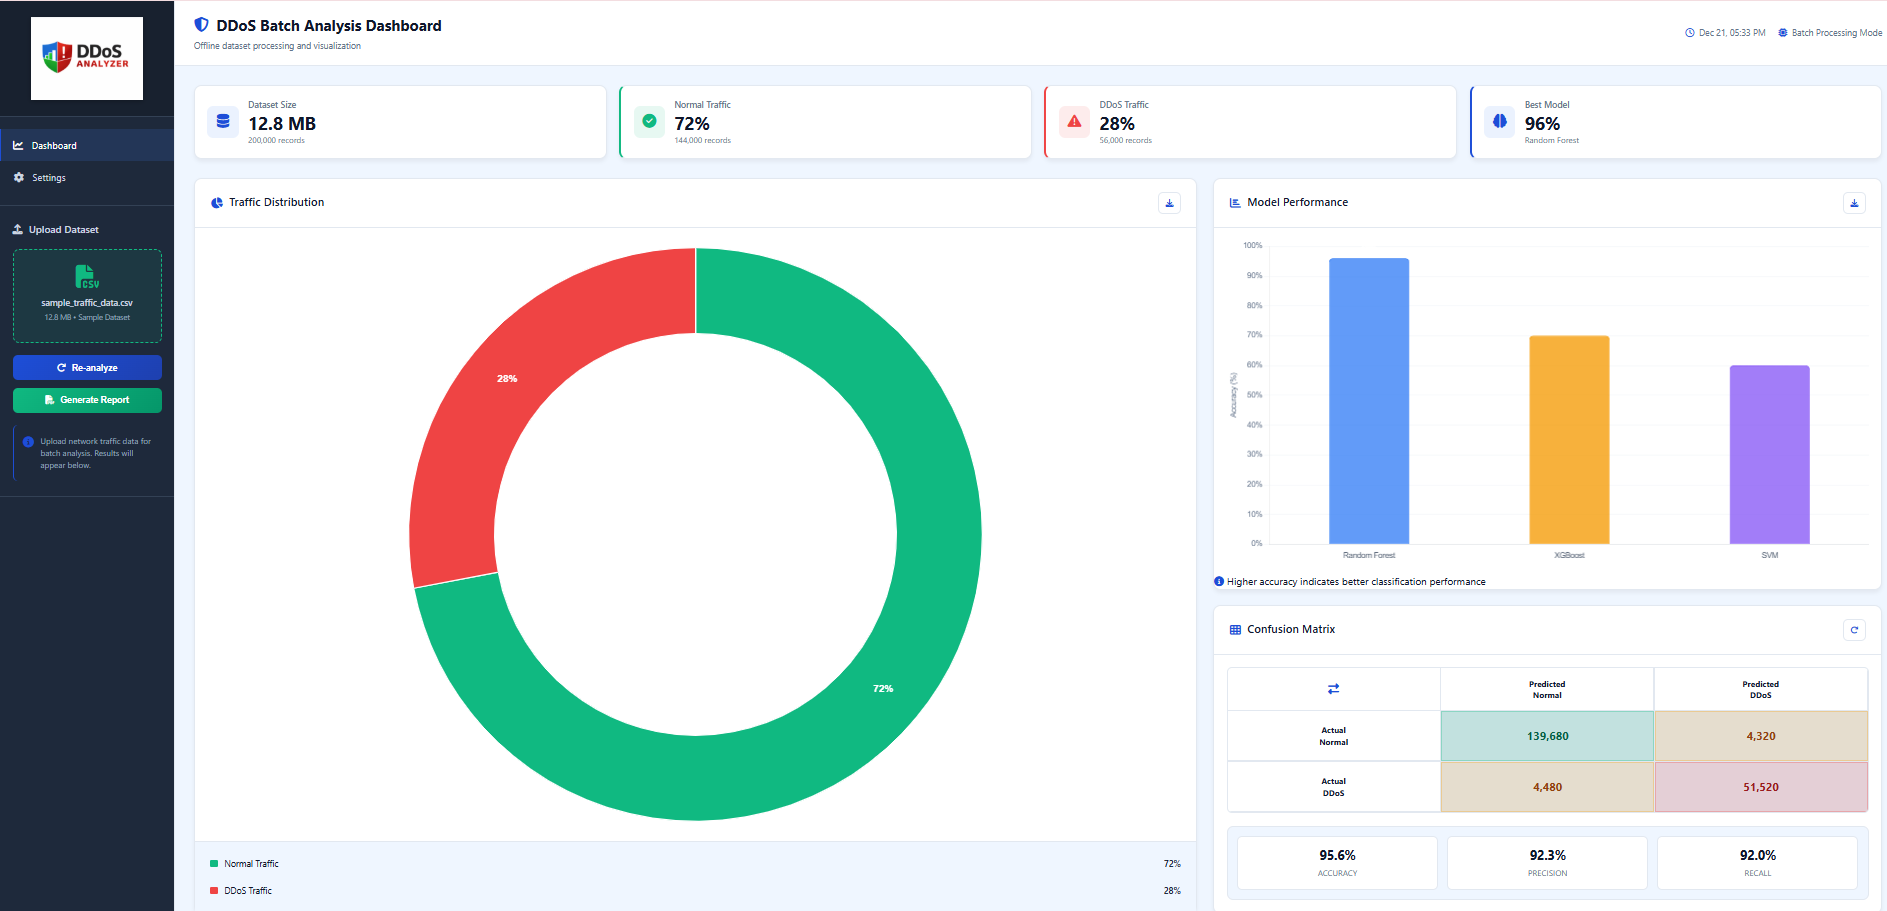
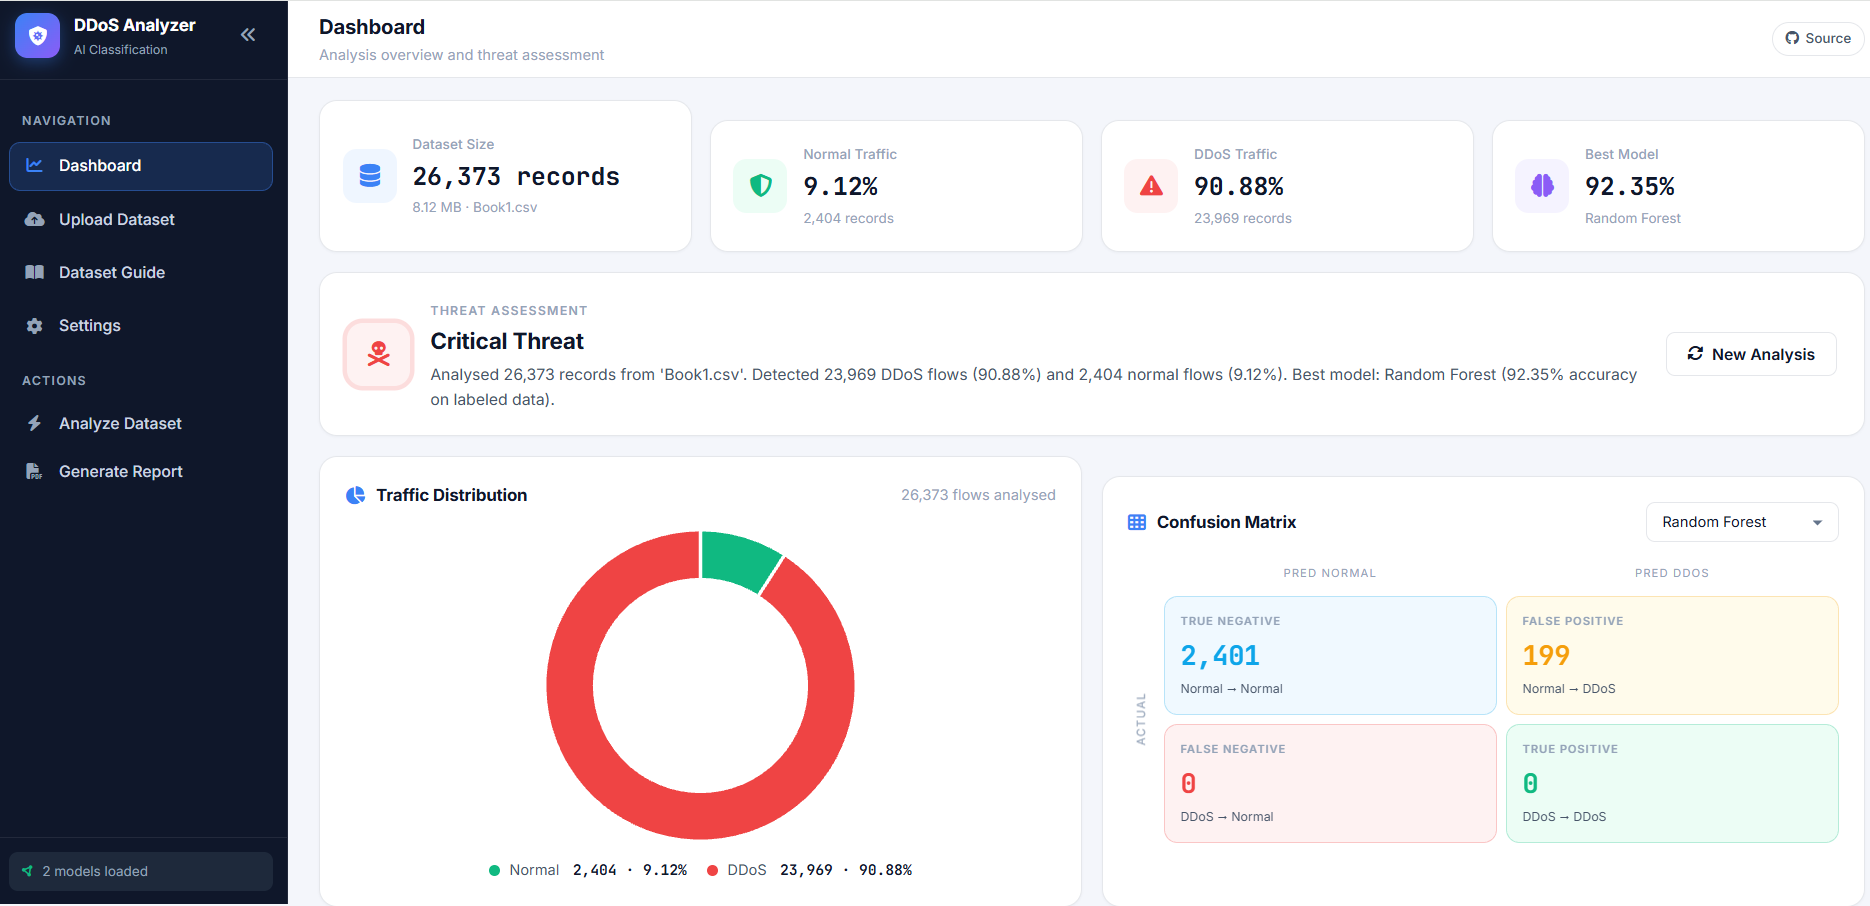
docs: refresh screenshots with current UI
- Replace screenshots with current-UI captures: dashboard, model
  performance, traffic intelligence, recommendations, PDF report (2 pages)
- Add model-performance.png; drop stale upload/settings shots
- Update README gallery to the new 6-shot layout

diff --git a/README.md b/README.md
@@ -89,13 +89,13 @@ Everything runs **locally** — your traffic data never leaves your machine (the
 
 <div align="center">
 
-| Dashboard | Upload |
+| Dashboard | Model Performance |
 |:---:|:---:|
-| <img src="assets/screenshots/dashboard.png" width="420"/> | <img src="assets/screenshots/upload.png" width="420"/> |
-| **AI Recommendations** | **PDF Report** |
-| <img src="assets/screenshots/recommendations.png" width="420"/> | <img src="assets/screenshots/pdf-report.png" width="420"/> |
-| **Settings** | **Overview** |
-| <img src="assets/screenshots/settings.png" width="420"/> | <img src="assets/screenshots/overview.png" width="420"/> |
+| <img src="assets/screenshots/dashboard.png" width="420"/> | <img src="assets/screenshots/model-performance.png" width="420"/> |
+| **Traffic Intelligence** | **AI Recommendations** |
+| <img src="assets/screenshots/overview.png" width="420"/> | <img src="assets/screenshots/recommendations.png" width="420"/> |
+| **PDF Report** | **PDF Report — details** |
+| <img src="assets/screenshots/pdf-report.png" width="420"/> | <img src="assets/screenshots/pdf-report-2.png" width="420"/> |
 
 </div>
 
